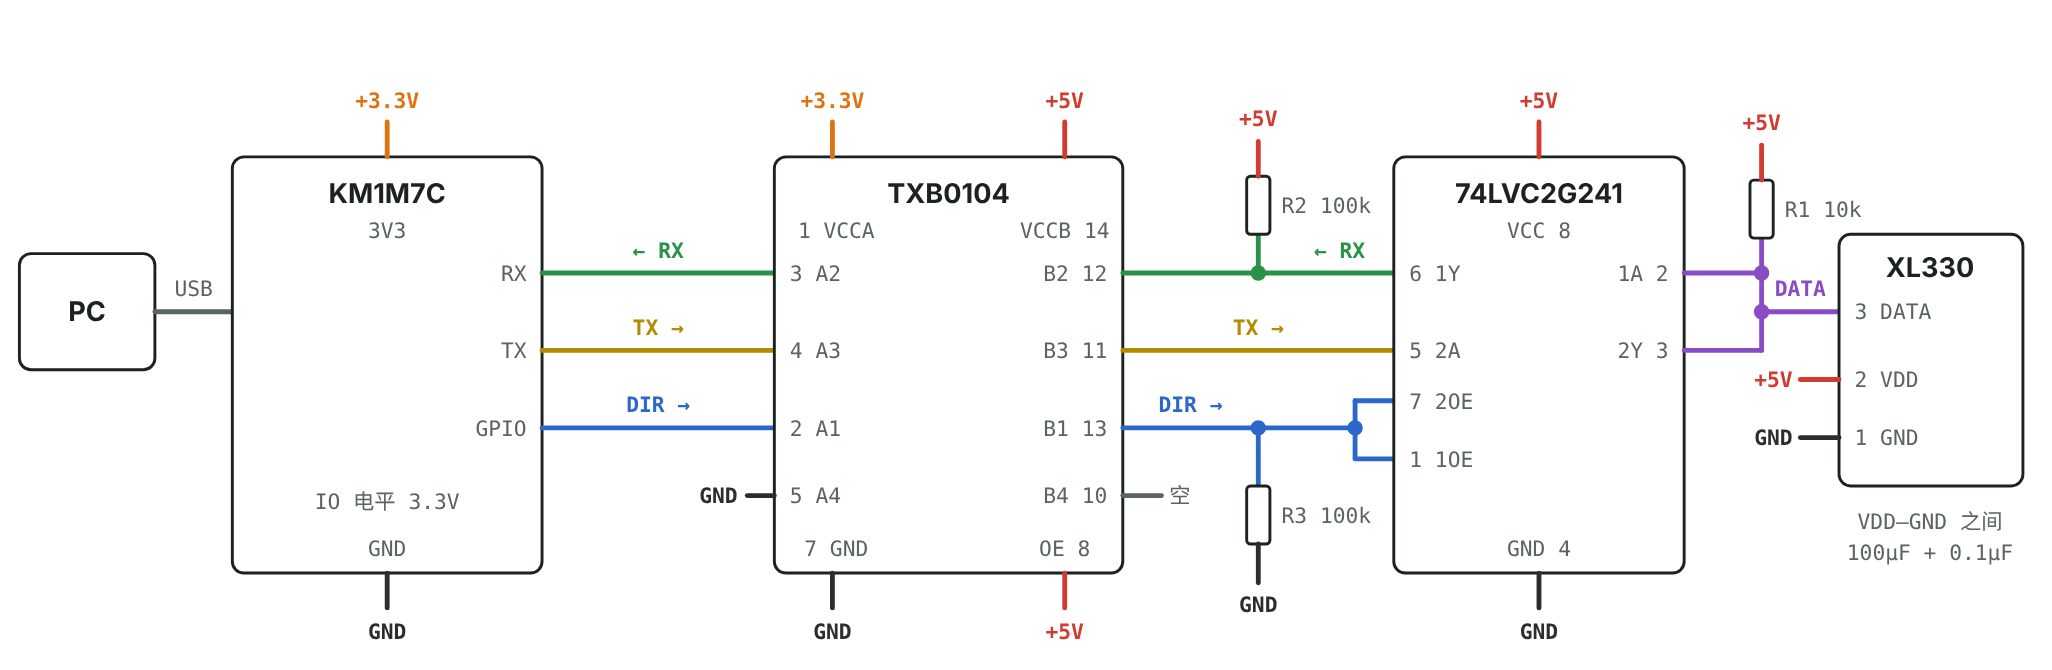
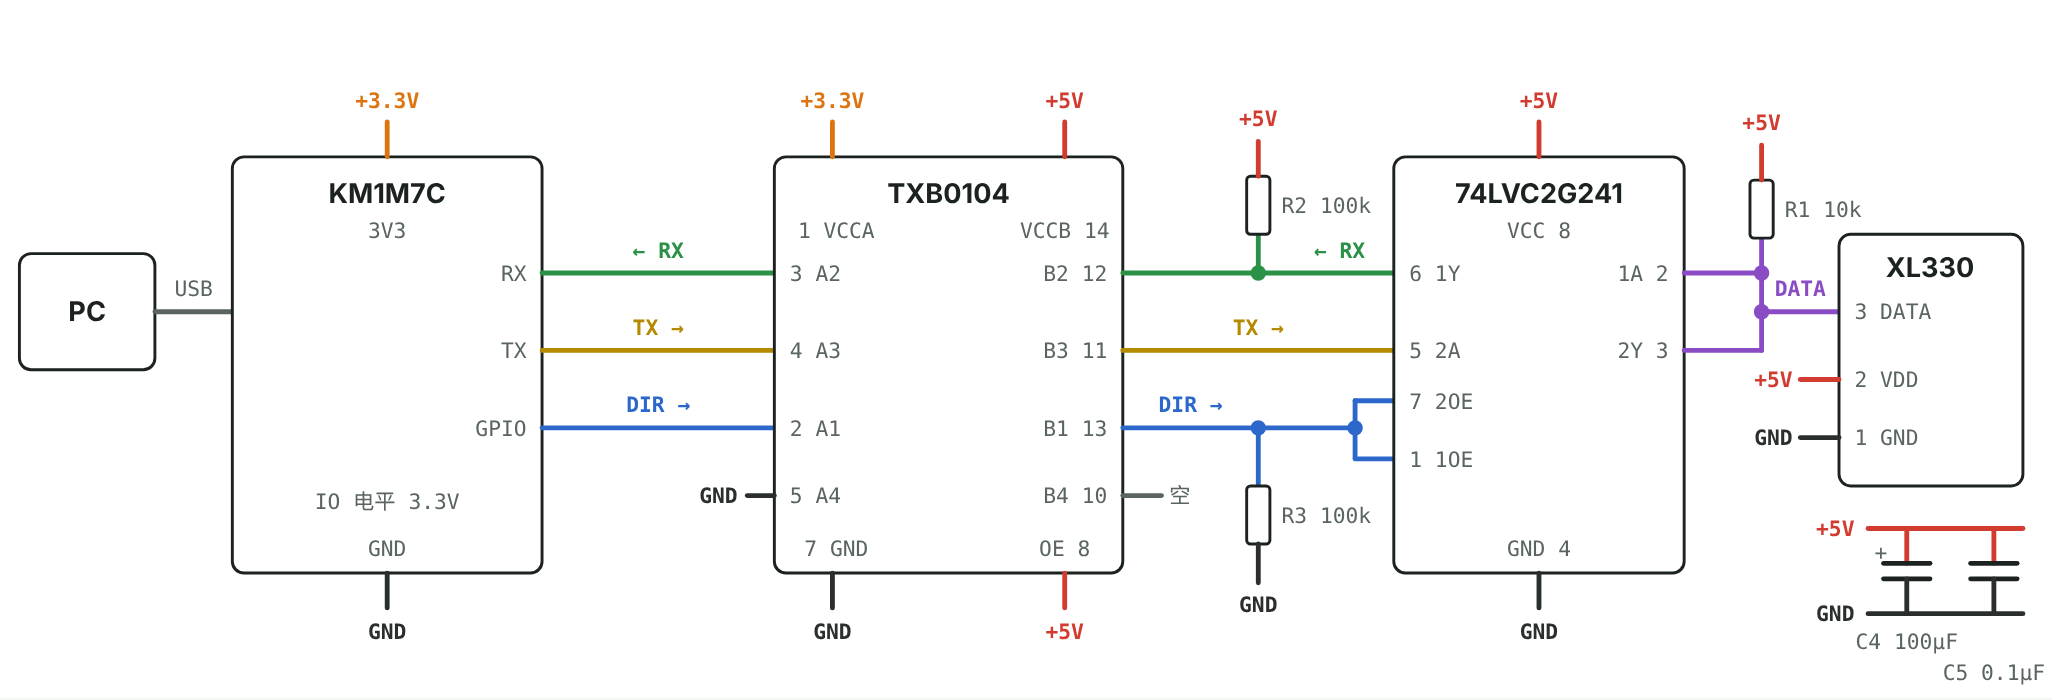
Draw C4 and C5 on the schematic
Replace the text note under the XL330 with the actual capacitor
symbols: C4 100uF (polarized) and C5 0.1uF between +5V and GND.

Claude-Session: https://claude.ai/code/session_01WiTXKFSppvefth2JxyFg7v

diff --git a/docs/breadboard/xl330_breadboard.html b/docs/breadboard/xl330_breadboard.html
@@ -166,7 +166,7 @@ ol.steps{margin:0;padding-left:1.4em;display:grid;gap:8px;max-width:72ch}
   <section aria-labelledby="sch-h">
     <h2 id="sch-h">电路图</h2>
     <div class="frame">
-      <svg class="sch" viewBox="0 0 1060 345" role="img" aria-labelledby="sch-t sch-d">
+      <svg class="sch" viewBox="0 0 1060 360" role="img" aria-labelledby="sch-t sch-d">
         <title id="sch-t">XL330 通信电路原理图</title>
         <desc id="sch-d">KM1M7C 的 RX、TX、DIR 是 3.3V 电平，经 TXB0104 转成 5V 后接 74LVC2G241。241 的 2Y 和 1A 合并成 DATA 线接 XL330。R1 10k 把 DATA 上拉到 5V，R2 100k 把 RX 上拉到 5V，R3 100k 把 DIR 下拉到 GND。+5V 来自外部电源。</desc>
         <rect class="bx" x="10" y="130" width="70" height="60" rx="6"/>
@@ -241,8 +241,13 @@ ol.steps{margin:0;padding-left:1.4em;display:grid;gap:8px;max-width:72ch}
         <text x="958" y="164">3 DATA</text>
         <text x="958" y="199">2 VDD</text>
         <text x="958" y="229">1 GND</text>
-        <text x="997" y="272" text-anchor="middle">VDD–GND 之间</text>
-        <text x="997" y="288" text-anchor="middle">100µF + 0.1µF</text>
+        <line class="ln s-5" x1="965" y1="272" x2="1045" y2="272"/><text class="t-5" x="958" y="276" text-anchor="end">+5V</text>
+        <line class="ln s-g" x1="965" y1="316" x2="1045" y2="316"/><text class="t-g" x="958" y="320" text-anchor="end">GND</text>
+        <line class="ln s-5" x1="985" y1="272" x2="985" y2="290"/><line class="ln" style="stroke:var(--ink)" x1="973" y1="290" x2="997" y2="290"/><line class="ln" style="stroke:var(--ink)" x1="973" y1="298" x2="997" y2="298"/><line class="ln s-g" x1="985" y1="298" x2="985" y2="316"/>
+        <line class="ln s-5" x1="1030" y1="272" x2="1030" y2="290"/><line class="ln" style="stroke:var(--ink)" x1="1018" y1="290" x2="1042" y2="290"/><line class="ln" style="stroke:var(--ink)" x1="1018" y1="298" x2="1042" y2="298"/><line class="ln s-g" x1="1030" y1="298" x2="1030" y2="316"/>
+        <text x="975" y="288" text-anchor="end">+</text>
+        <text x="985" y="334" text-anchor="middle">C4 100µF</text>
+        <text x="1030" y="350" text-anchor="middle">C5 0.1µF</text>
         <line class="ln s-5" x1="950" y1="195" x2="930" y2="195"/><text class="t-5" x="926" y="199" text-anchor="end">+5V</text>
         <line class="ln s-g" x1="950" y1="225" x2="930" y2="225"/><text class="t-g" x="926" y="229" text-anchor="end">GND</text>
       </svg>
